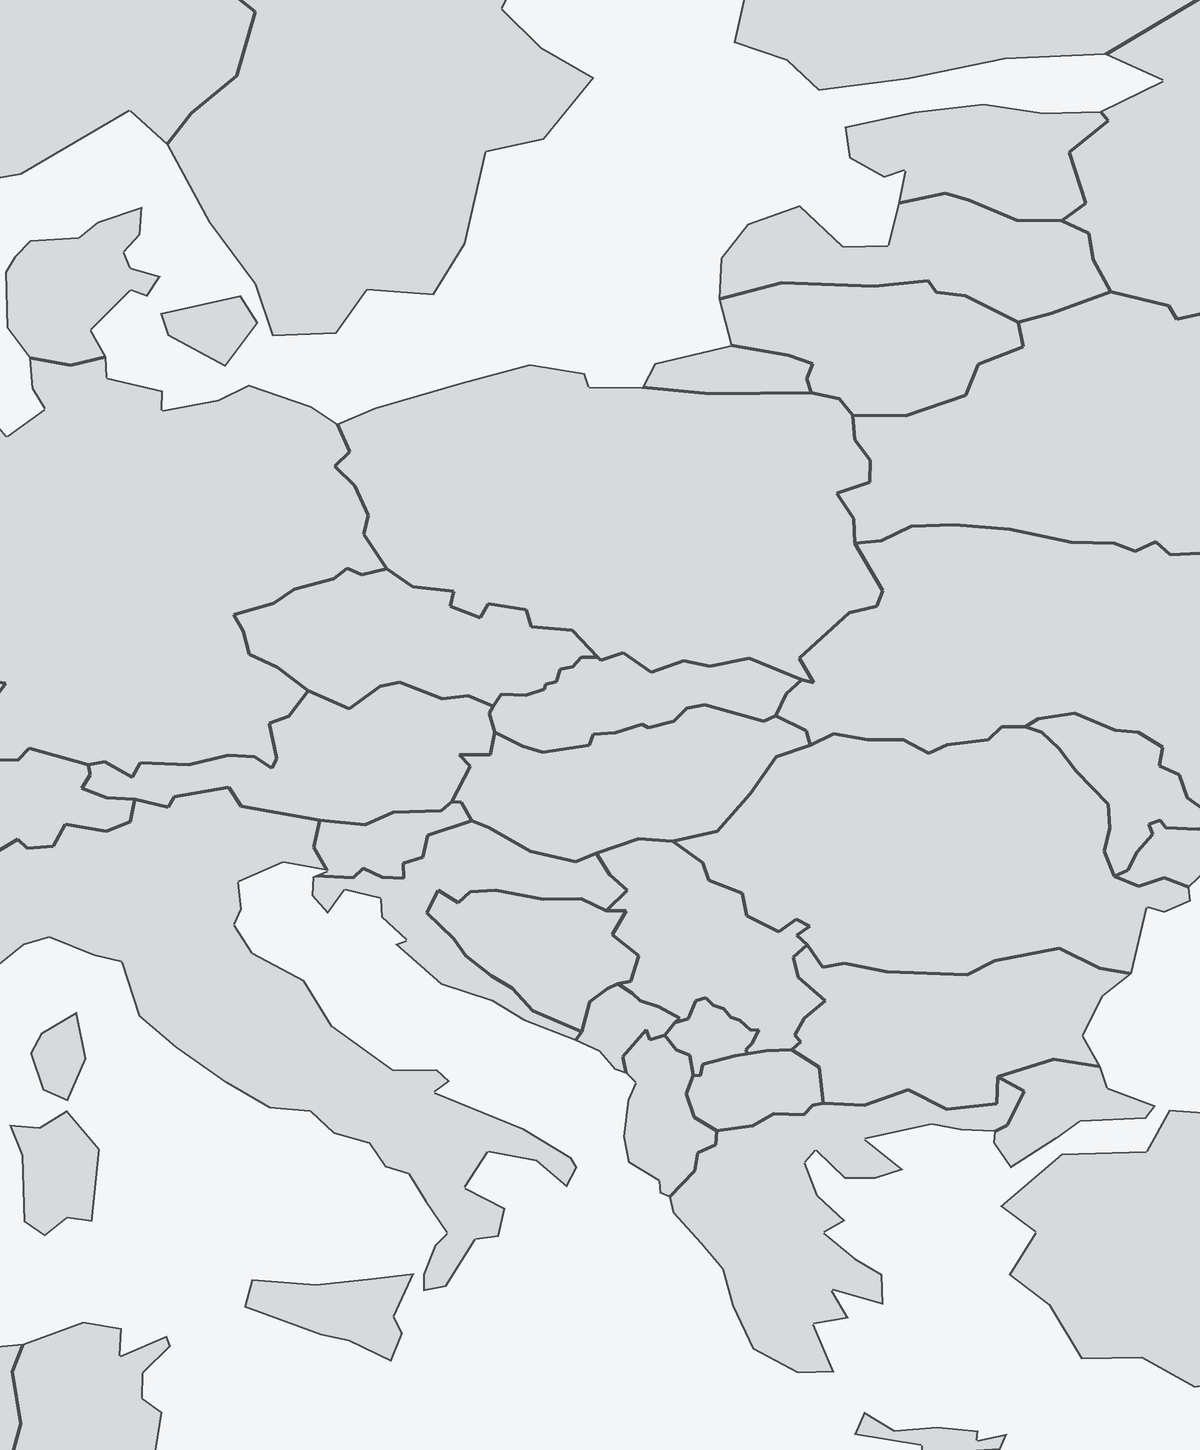
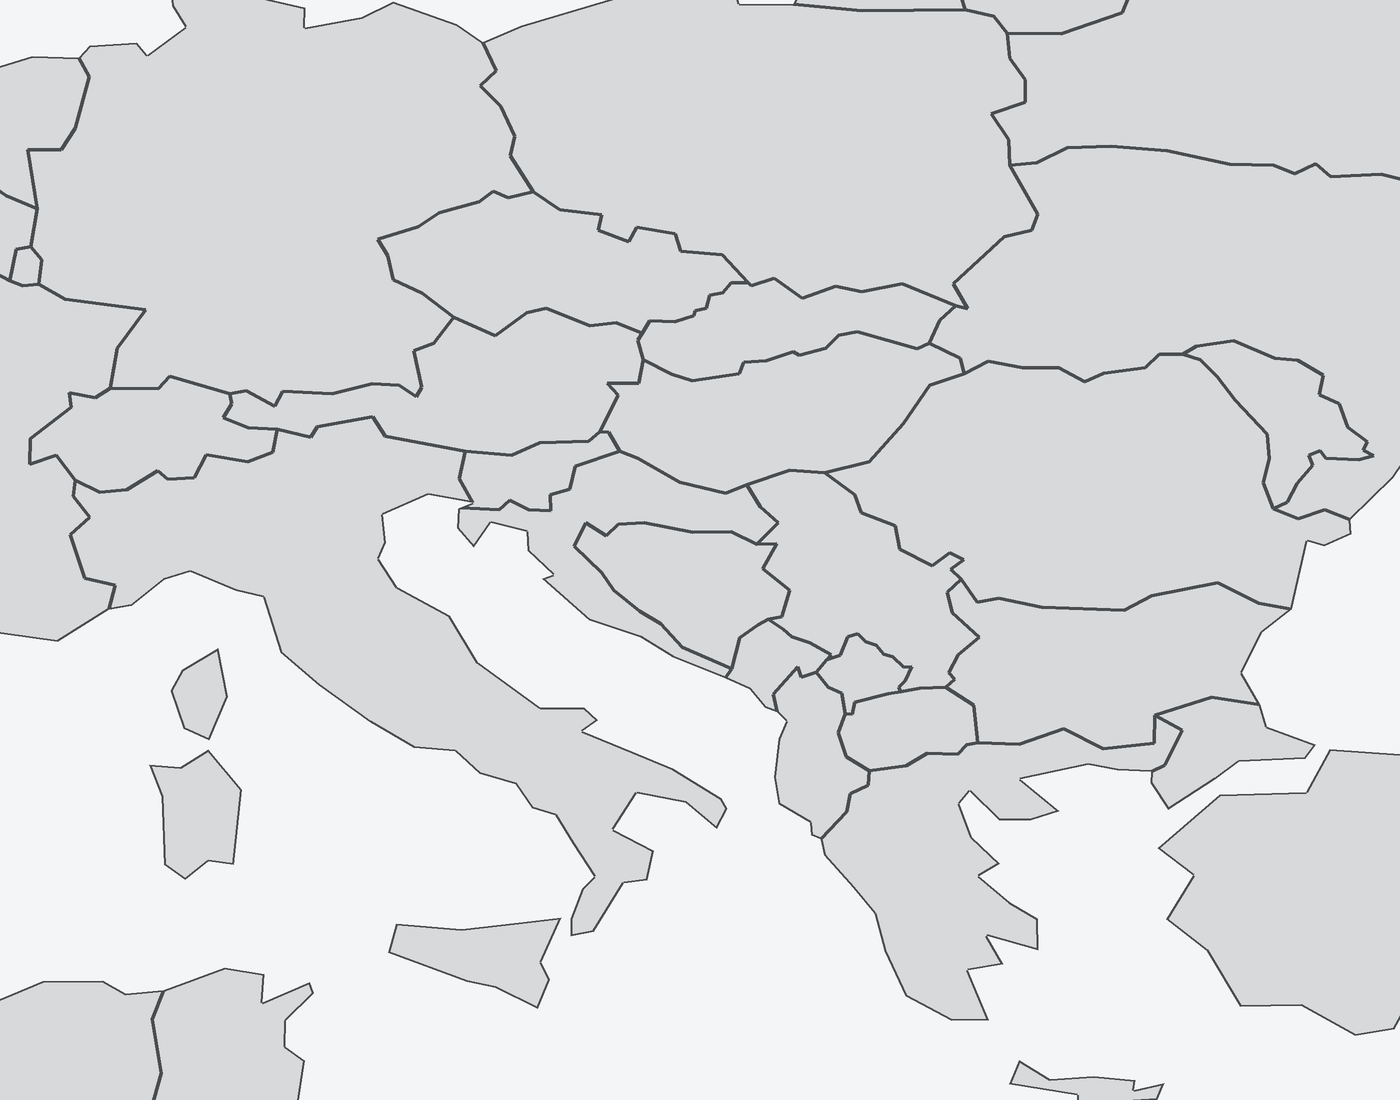
Ajustar mapa al encuadre de referencia

diff --git a/tools/generate_map.py b/tools/generate_map.py
@@ -8,9 +8,10 @@ ROOT = Path(__file__).resolve().parents[1]
 SOURCE = ROOT / "tmp" / "mapdata" / "countries.geojson"
 SOURCE_URL = "https://raw.githubusercontent.com/nvkelso/natural-earth-vector/master/geojson/ne_110m_admin_0_countries.geojson"
 OUTPUT = ROOT / "src" / "main" / "resources" / "images" / "mapa-europa-preciso.png"
-WIDTH, HEIGHT, SCALE = 1200, 1450, 2
-# Recorte: desde el este de Francia hasta antes de Kiev, incluyendo Tunez y Helsinki.
-MIN_LON, MAX_LON, MIN_LAT, MAX_LAT = 8.0, 29.8, 35.0, 61.5
+WIDTH, HEIGHT, SCALE = 1400, 1100, 2
+# Encuadre pedido: Luxemburgo/Berna, Berlin/Varsovia, Chisinau y Atenas.
+# Se conserva margen al sur para que Tunez aparezca completo.
+MIN_LON, MAX_LON, MIN_LAT, MAX_LAT = 5.5, 30.5, 35.0, 54.5
 
 
 def project(point):

diff --git a/src/main/java/appcumple/AppCumple.java b/src/main/java/appcumple/AppCumple.java
@@ -259,7 +259,7 @@ public final class AppCumple extends JFrame {
     }
 
     private final class MapPanel extends JPanel {
-        private static final double MIN_LON = 8.0, MAX_LON = 29.8, MIN_LAT = 35.0, MAX_LAT = 61.5;
+        private static final double MIN_LON = 5.5, MAX_LON = 30.5, MIN_LAT = 35.0, MAX_LAT = 54.5;
         private final BufferedImage backgroundMap = loadBackgroundMap();
         private Capital hovered;
 

diff --git a/README.md b/README.md
@@ -25,7 +25,7 @@ Requiere JDK 17 o superior. El proyecto usa Maven y no necesita dependencias ext
 
 La aplicacion crea automaticamente las carpetas que falten al iniciarse. El repositorio ya incluye una carpeta para cada capital.
 
-El fondo se genera a partir de geometria publica de Natural Earth mediante `tools/generate_map.py`. El recorte actual elimina Francia y el oeste, y termina antes de Kiev: mapa y marcadores comparten los limites 8/29.8 de longitud y 35/61.5 de latitud.
+El fondo se genera a partir de geometria publica de Natural Earth mediante `tools/generate_map.py`. El encuadre actual sigue la referencia proporcionada: Luxemburgo/Berna, Berlin/Varsovia, Chisinau y Atenas, con margen adicional para Tunez. Mapa y marcadores comparten los limites 5.5/30.5 de longitud y 35/54.5 de latitud.
 Natural Earth distribuye estos datos cartograficos como dominio publico.
 
 El JAR generado por NetBeans queda en `target/app-cumple-marcos-1.0-SNAPSHOT.jar`.
